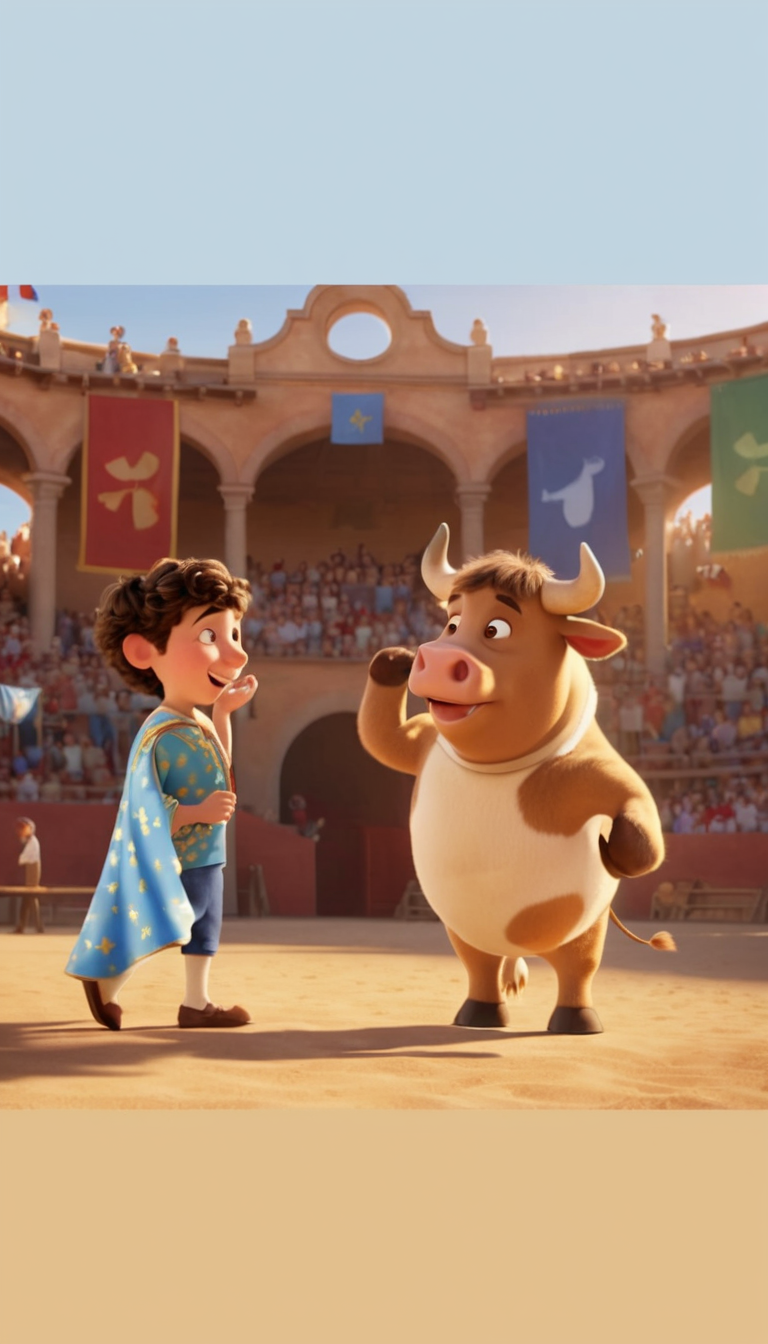
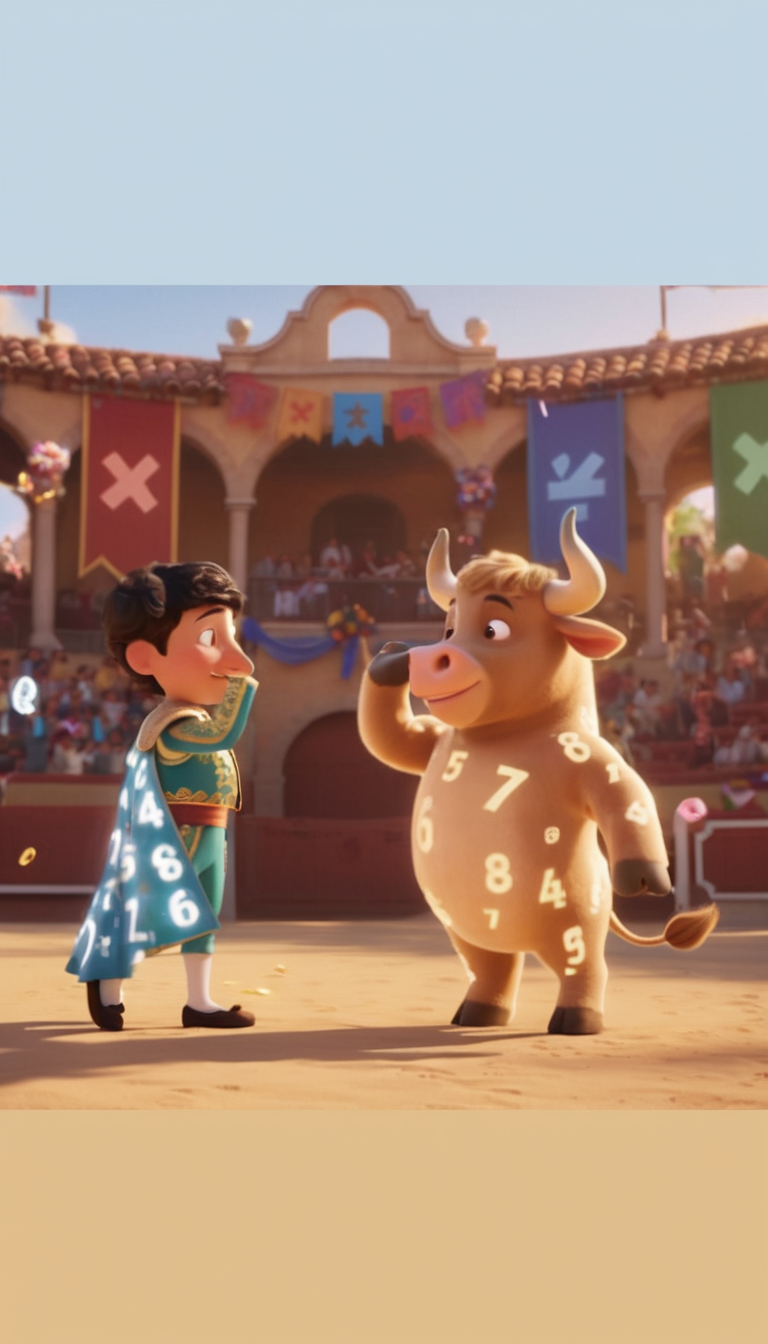
Fix Toro Numérico losing its number markings in Home/Game/Result art
The bull's glowing numbers-on-fur were present in the source reference
frames but img2img at denoise 0.42-0.6 was erasing them every time,
leaving plain fur with a stray white patch that read as clothing
rather than the character's actual design. Denoise 0.3 (steps bumped
to 40 to compensate) preserves the texture; documented in the
workflow README as a repeatable finding.

diff --git a/mathematador-app/assets/working/comfy-workflows/README.md b/mathematador-app/assets/working/comfy-workflows/README.md
@@ -60,6 +60,20 @@ it immediately, first try, every time. Cause unconfirmed, but treat it as a
 hard rule: never generate the boy+bull together in a static standing pose:
 always seed from / describe an active pose.
 
+## Key finding: img2img at denoise ≥0.42 erases the bull's numbers
+
+The bull's glowing numbers-on-fur texture is present in every real source
+frame, but img2img at denoise 0.42-0.6 reliably wipes it out even with the
+numbers explicitly described in the prompt (positive: "dozens of glowing
+soft white numbers and math symbols floating on and embedded in its fur...";
+negative: "two-tone fur, white belly patch, wearing clothes, vest, pants,
+plain fur, no markings") — the model treats the source's own number texture
+as noise to smooth away during resampling, and doesn't reliably repaint it
+from text either. **Denoise 0.3 (with steps bumped to 40 to compensate) is
+what actually preserves it.** All three couple-scene workflows now use this;
+apply it to any future one seeding from a frame where the bull's numbers
+need to stay legible.
+
 ## Files
 
 - `icon-settings.json` / `icon-shop.json` / `icon-docs.json` — Home-screen nav
